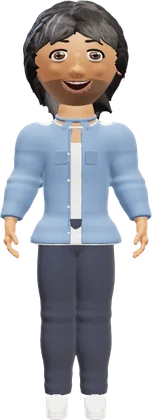
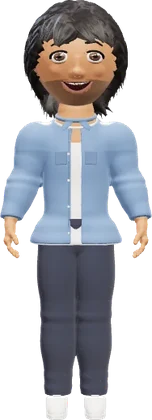
Hair: detail layer on every style
- Each lock carries finer sub-locks that ride on top and fan apart toward
  the tips: separated, piecey ends and layered depth (long, medium, curly)
- Combed short cuts lie flat on the head with broader tips (no more scaly
  feathers); quiffs, spikes and messy styles still stand up
- Starter and welcome pictures re-rendered with the new hair
- Sculpt cache v28, thumbnail cache v18

Claude-Session: https://claude.ai/code/session_011n7UBMF7siA6WHFHfiWuWV

diff --git a/src/features/avatar/sculpt3d/groom.ts b/src/features/avatar/sculpt3d/groom.ts
@@ -529,13 +529,19 @@ class Groomer {
       L *= this.fadeBlend(u.y, az);
       if (L < 0.05) continue;
       const layer = smooth(line, 1, u.y); // crown strands lie on top
-      let pts = this.grow(u, L, { fringe, layer });
+      // combed short cuts lie flat on the head (lift only for quiffs / spikes / messy styles)
+      const standUp = p.flow === 'up' || p.flow === 'out' || p.flow === 'hawk' || p.flow === 'messy';
+      const shortCut = L < 0.75 && !standUp && !coily && !curly;
+      let pts = this.grow(u, L, { fringe, layer, liftK: shortCut ? 0.3 : 1 });
       const step = coily ? 0.012 * R : curly ? 0.02 * R : 0.04 * R;
       if (p.tex !== 'straight') pts = this.texture(this.resample(pts, step), r() * Math.PI * 2);
       const short = L < 0.45;
       const w0 = R * p.clump * (coily ? (longest > 0.8 ? 0.11 : 0.085) : curly ? 0.14 : p.fringe === 'wispy' && fringe ? 0.13 : short ? 0.22 : 0.3) * (0.85 + r() * 0.3);
-      const tip = p.fringe === 'straight' && fringe ? 0.4 : Math.max(0.03, 0.3 - 0.3 * p.tips);
+      const tip = p.fringe === 'straight' && fringe ? 0.4 : shortCut ? 0.32 - 0.15 * p.tips : Math.max(0.03, 0.3 - 0.3 * p.tips);
       this.emit(pts, w0, { flat: coily ? 0.95 : curly ? 0.75 : short ? 0.3 : 0.42 + p.tips * 0.1, tip, radial: coily ? 5 : 7 });
+      // detail: finer locks riding on top of the main one and fanning apart toward the tips
+      // (piecey, separated ends and layered depth — the sculpted-groom look)
+      if (!coily) this.subLocks(pts, w0, { n: curly ? 1 : shortCut ? 1 : short ? 2 : 3, flat: curly ? 0.75 : 0.5, spread: shortCut ? 0.3 : short ? 0.55 : 0.8 });
       // fly-aways: a few fine single strands lifting off the surface
       if (!coily && u.z < 0.3 && r() < 0.035 + p.messy * 0.05 && L > 0.2) {
         const fp = this.texture(this.resample(this.grow(u, L * (1 + r() * 0.15), { fringe, layer: layer + 0.6, liftK: 1.5 }), 0.03 * R), r() * 6, 'textured', 1);
@@ -543,6 +549,35 @@ class Groomer {
       }
     }
     void h;
+  }
+
+  /**
+   * Finer locks following a main lock: each starts part-way along it, sits a little above it,
+   * drifts sideways (more toward the tip, so the ends fan apart) and ends in a sharp point.
+   */
+  subLocks(pts: V[], w0: number, o: { n: number; flat: number; spread: number }) {
+    const { r } = this;
+    if (pts.length < 4) return;
+    const T = v3(), N = v3(), B = v3();
+    for (let k = 0; k < o.n; k++) {
+      const side = (k % 2 ? 1 : -1) * (0.35 + r() * 0.45);
+      const start = Math.floor((pts.length - 1) * (0.05 + r() * 0.3));
+      const endT = 0.72 + r() * 0.36; // some end before, some run past the main tip
+      const out: V[] = [];
+      const n = pts.length;
+      for (let i = start; i < n; i++) {
+        const t = (i - start) / Math.max(1, n - 1 - start);
+        if (t > endT) break;
+        const a = pts[Math.max(0, i - 1)], b = pts[Math.min(n - 1, i + 1)];
+        T.subVectors(b, a).normalize();
+        N.copy(pts[i]).normalize().addScaledVector(T, -N.dot(T)).normalize();
+        B.crossVectors(T, N).normalize();
+        const fan = side * w0 * (0.45 + o.spread * t * t);
+        out.push(pts[i].clone().addScaledVector(B, fan).addScaledVector(N, w0 * (0.12 + 0.1 * Math.sin(Math.PI * t))));
+      }
+      if (out.length < 3) continue;
+      this.emit(out, w0 * (0.32 + r() * 0.14), { flat: o.flat, tip: 0.02, radial: 5, shade: 1.06, tStart: (start / (n - 1)), tEnd: Math.min(1, start / (n - 1) + endT * (1 - start / (n - 1))) });
+    }
   }
 
   /** big round afro: a sculpted volume covered in small coils */

diff --git a/src/features/avatar/editor/thumbs.tsx b/src/features/avatar/editor/thumbs.tsx
@@ -54,7 +54,7 @@ const cache = new Map<string, string>();
  * opens instantly on later visits. Bump the version whenever the renderer
  * changes how variants look.
  */
-const STORE = 'snv-thumbs-v17';
+const STORE = 'snv-thumbs-v18';
 const storeKey = (key: string) => `/__thumb/${encodeURIComponent(key)}`;
 async function fromStore(key: string): Promise<string | null> {
   try {

diff --git a/src/features/avatar/sculpt3d/jobs.ts b/src/features/avatar/sculpt3d/jobs.ts
@@ -22,7 +22,7 @@ export type Job =
   | { k: 'head'; h: HeadShape; nose: NoseP | null; ears: EarP };
 
 /** Bump when any sculpt builder changes its output (invalidates the on-device cache). */
-export const SCULPT_VERSION = 26;
+export const SCULPT_VERSION = 28;
 
 const r3 = (n: number) => Math.round(n * 1000) / 1000;
 export function jobKey(j: Job): string {
